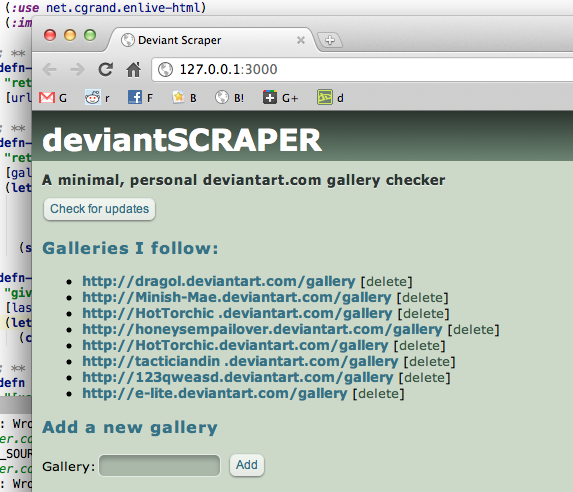
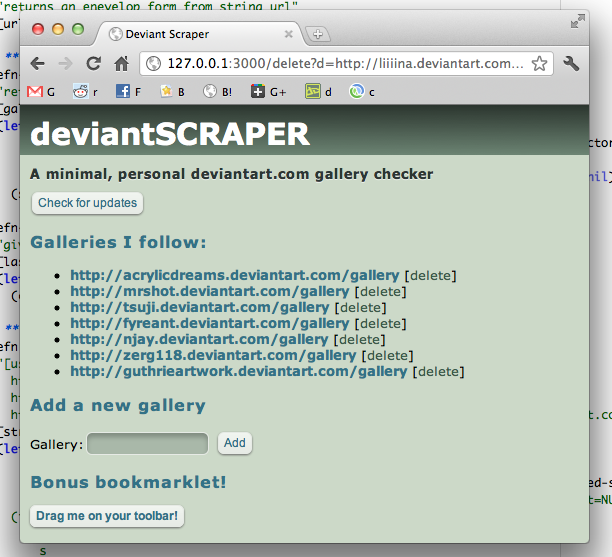
bookmark

diff --git a/resources/tpl/home.html b/resources/tpl/home.html
@@ -4,7 +4,14 @@
     <title>Deviant Scraper</title>    
     <script type="text/javascript" src="https://ajax.googleapis.com/ajax/libs/jquery/1.6.4/jquery.min.js"></script>
     <script type="text/javascript">
-        function check_updates() {
+
+        $(function() {
+          var href = $('#bookmarklet').attr('href');
+          href = href.replace('CURRENT_URL', location.host);
+          $('#bookmarklet').attr('href', href);
+        });    
+    
+        function check_updates() {          
             $('a.url').each(function(i) {
                 var link = $(this);
                 link.nextAll('span.new').html('<img src="/loading.gif" />');
@@ -49,6 +56,12 @@
               <input type="Submit" value="Add" />
           </form>
       </div>
-    </div>
+      
+      <h3>Bonus bookmarklet!</h3>
+      <div>
+        <a id="bookmarklet" href="javascript:location.href=%27http://CURRENT_URL/add?d=%27%20+%20location.href;">Drag me on your toolbar!</a>
+      </div>
+      
+    </div>    
   </body>
 </html>

diff --git a/resources/public/scraper.css b/resources/public/scraper.css
@@ -38,7 +38,8 @@
           text-shadow: rgba(255, 255, 255, 0.597656) 0px 1px 0px;
           margin-top: 0px;
         }
-        input[type=submit], input[type=button]
+        input[type=submit], input[type=button],
+        #bookmarklet
         {
           /* css3buttongenerator.com */
           font-family: Arial;
